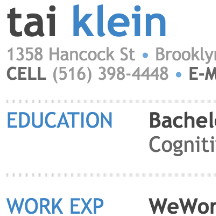
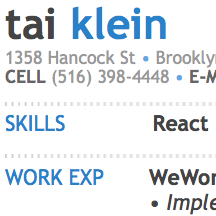
optimize resume for mobile

diff --git a/index.html b/index.html
@@ -20,7 +20,7 @@
     </div>
 
     <div class="container portfolio-container">
-      <a href="https://github.com/etaiklein/resume/blob/master/resume.pdf">
+      <a href="https://raw.githubusercontent.com/etaiklein/resume/master/resume.png">
         <img id="portfolio1" src="images/resume.png" title="resume">
       </a>
     </div>

diff --git a/stylesheets/stylesheet.css b/stylesheets/stylesheet.css
@@ -24,7 +24,7 @@ body {
 .container {
   left: 50%;
   position: absolute;
-  top: 50%;
+  top: 25%;
   transform: translateX(-50%) translateY(-50%);
   max-height: 100%;
   max-width: 100%;
